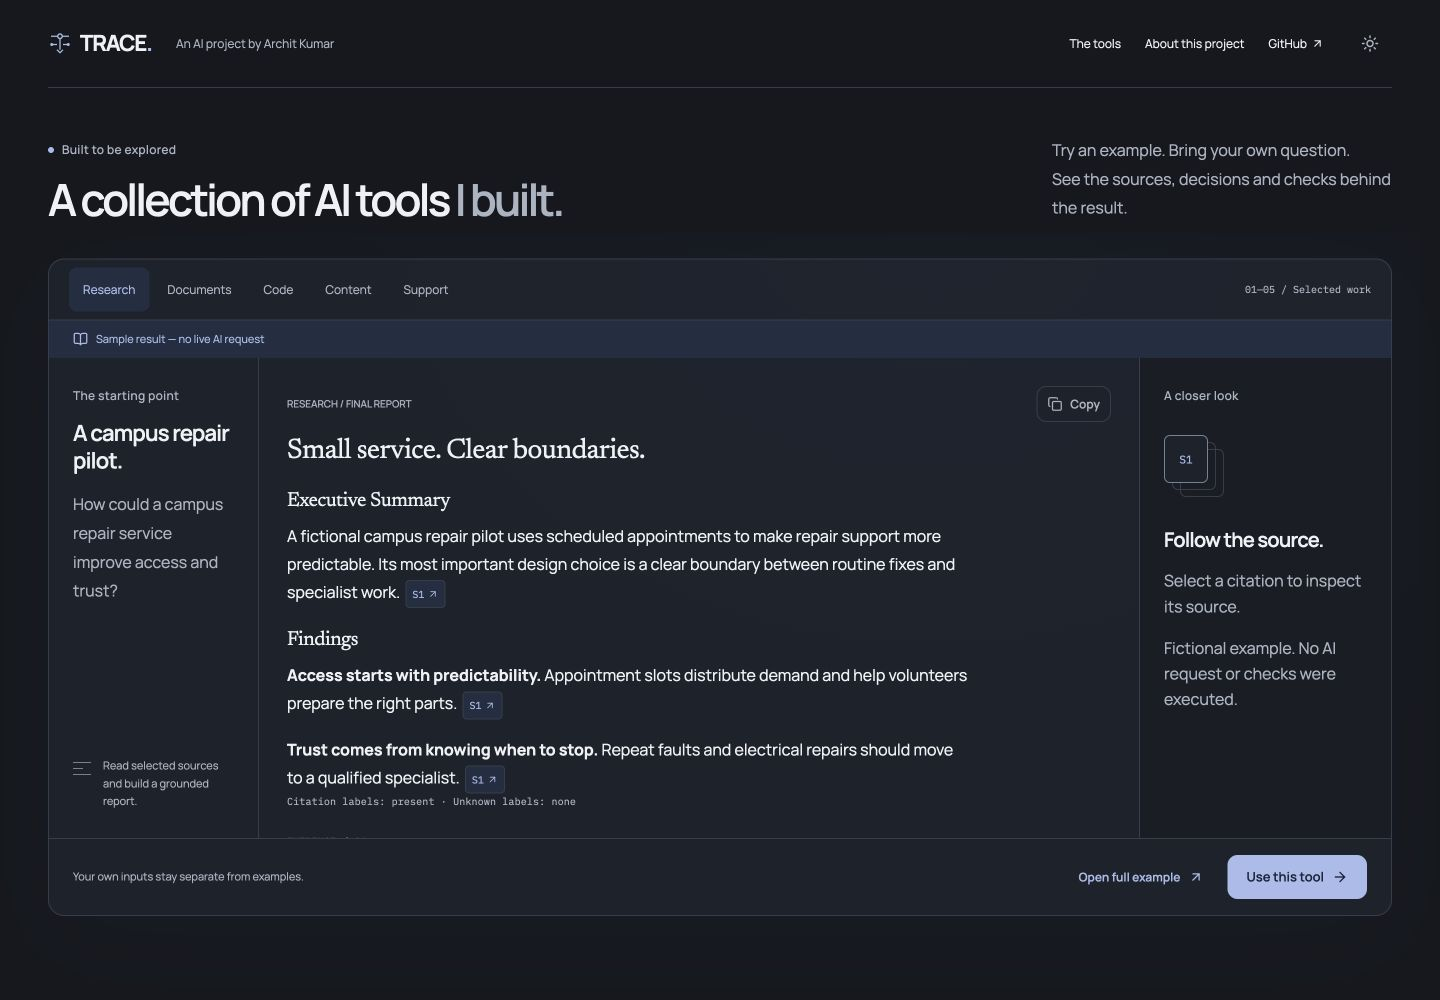
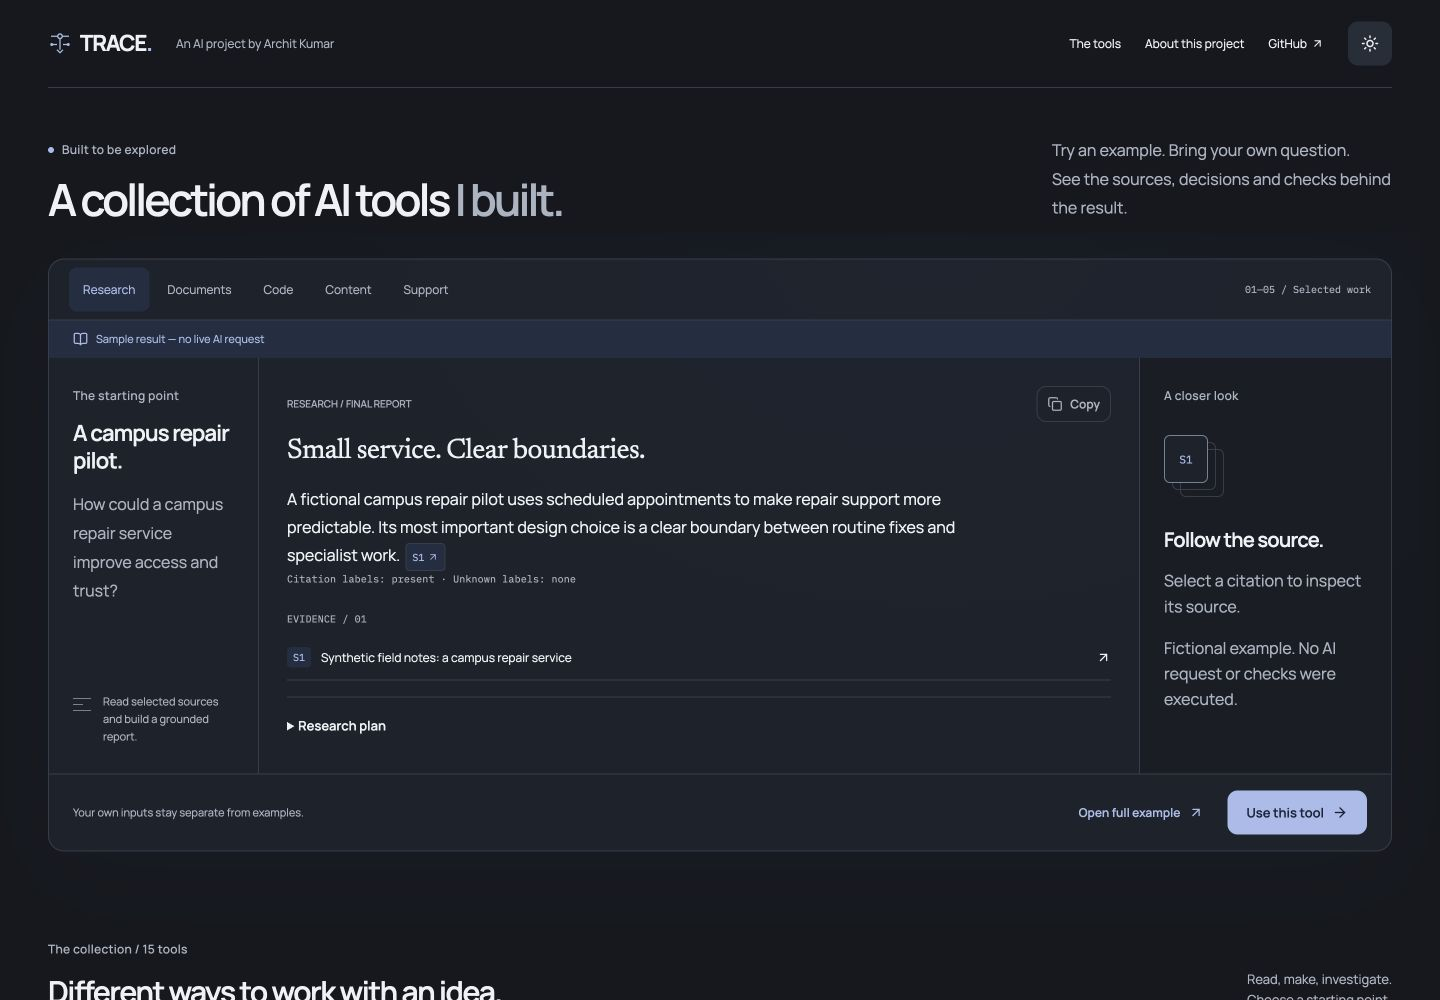
Keep the homepage citation visible on phone screens

diff --git a/frontend/src/components/results.tsx b/frontend/src/components/results.tsx
@@ -335,7 +335,9 @@ export function Results({
           <Markdown
             value={
               compact
-                ? result.final_report.split("## Risks and Gaps")[0]
+                ? result.final_report
+                    .split("## Findings")[0]
+                    .replace(/^## Executive Summary\s*$/m, "")
                 : result.final_report
             }
             sources={result.sources}

diff --git a/docs/quiet-studio.md b/docs/quiet-studio.md
@@ -24,6 +24,8 @@ All five public preview sample routes were checked, with the sample label and re
 
 All original URLs, group names, inputs, limits, generated API types, providers, mode semantics, quotas, fallback rules, request transport, ownership checks and hosting remain unchanged. No backend files or production dependencies changed. The three added dependencies are test-only: Testing Library React/DOM and jsdom.
 
+The homepage Research excerpt is intentionally shorter than the full workspace report. At 360×800 px, its first citation is fully visible at approximately y=766–794, allowing immediate source inspection.
+
 ## Reference use
 
 [Atmos Gallery](https://atmos.gallery/) informed spacing and restrained surfaces; [Creative Reference Library](https://crl-2026.webflow.io/library) informed the curated collection; [PinReply](https://pinreply.com/welcome/#practice) informed teaching through an immediately usable example. TRACE's CSS/SVG details, social artwork and implementation are original. No reference artwork was copied.
@@ -53,16 +55,16 @@ All original URLs, group names, inputs, limits, generated API types, providers, 
 | Media | Synthetic image opened at fit and actual size without page overflow; focus returned to trigger. Local audio fixture played only after clicking Play |
 | Navigation | Tool search, collection list view, mobile sheet including selecting current tool, sample return links and keyboard artifact tabs exercised. `/workspace` redirects to Research; an invalid tool renders the existing 404 |
 | Focus | Desktop citation and mobile evidence-sheet close/Escape restored the originating citation |
-| Contrast | Actual homepage text computed against rendered surfaces: 143 text elements per theme, no failures; minimum 5.45:1 light / 7.18:1 dark. This is a focused contrast audit, not full accessibility certification; [record](evaluation/studio-contrast.json) |
+| Contrast | Actual homepage text computed against rendered surfaces: 149 text elements per theme, no failures; minimum 5.45:1 light / 7.18:1 dark. This is a focused contrast audit, not full accessibility certification; [record](evaluation/studio-contrast.json) |
 | Dependency/contract scope | Production dependency versions, request builder, generated types, provider state, API transport and backend code unchanged |
 
 Tests use mocks and the optional local fixture server. No paid or shared-quota inference was used to verify this redesign. Sample data remains synthetic; mock execution does not establish model quality.
 
 ### Performance
 
-Local production builds were compared in the Codex WebKit browser at 1440 and 360 px, without CPU/network throttling. Three runs per width/version, each observed for 1.5 seconds. The new homepage measured LCP **0.284–0.512 seconds** and CLS **0–0.0526**. These pass the stated local targets under these conditions; they are not field measurements or evidence for slow mobile connections. INP requires additional real usage data. [Raw measurements](evaluation/studio-local-performance.json).
+Local production builds were compared in the Codex WebKit browser at 1440 and 360 px, without CPU/network throttling. Three runs per width/version, each observed for 1.5 seconds. The new homepage measured LCP **0.268–0.508 seconds** and CLS **0.0039–0.0526**. These pass the stated local targets under these conditions; they are not field measurements or evidence for slow mobile connections. INP requires additional real usage data. [Raw measurements](evaluation/studio-local-performance.json).
 
-The interactive homepage loads the existing Markdown/report rendering code. Its initial compressed JavaScript grew from **219,747 to 316,760 bytes**. The workspace entry shrank from **321,192 to 279,226 bytes** because results are loaded when needed. Shared compressed CSS shrank from **11,582 to 10,029 bytes**. These counts are unique assets referenced by generated route HTML, excluding later-loaded chunks and fonts; gzip sizes are calculated consistently, not network waterfall totals. [Build comparison](evaluation/studio-build-comparison.json).
+The interactive homepage loads the existing Markdown/report rendering code. Its initial compressed JavaScript grew from **219,747 to 316,780 bytes**. The workspace entry shrank from **321,192 to 279,226 bytes** because results are loaded when needed. Shared compressed CSS shrank from **11,582 to 10,029 bytes**. These counts are unique assets referenced by generated route HTML, excluding later-loaded chunks and fonts; gzip sizes are calculated consistently, not network waterfall totals. [Build comparison](evaluation/studio-build-comparison.json).
 
 ### Manual checks still needed before production promotion
 
